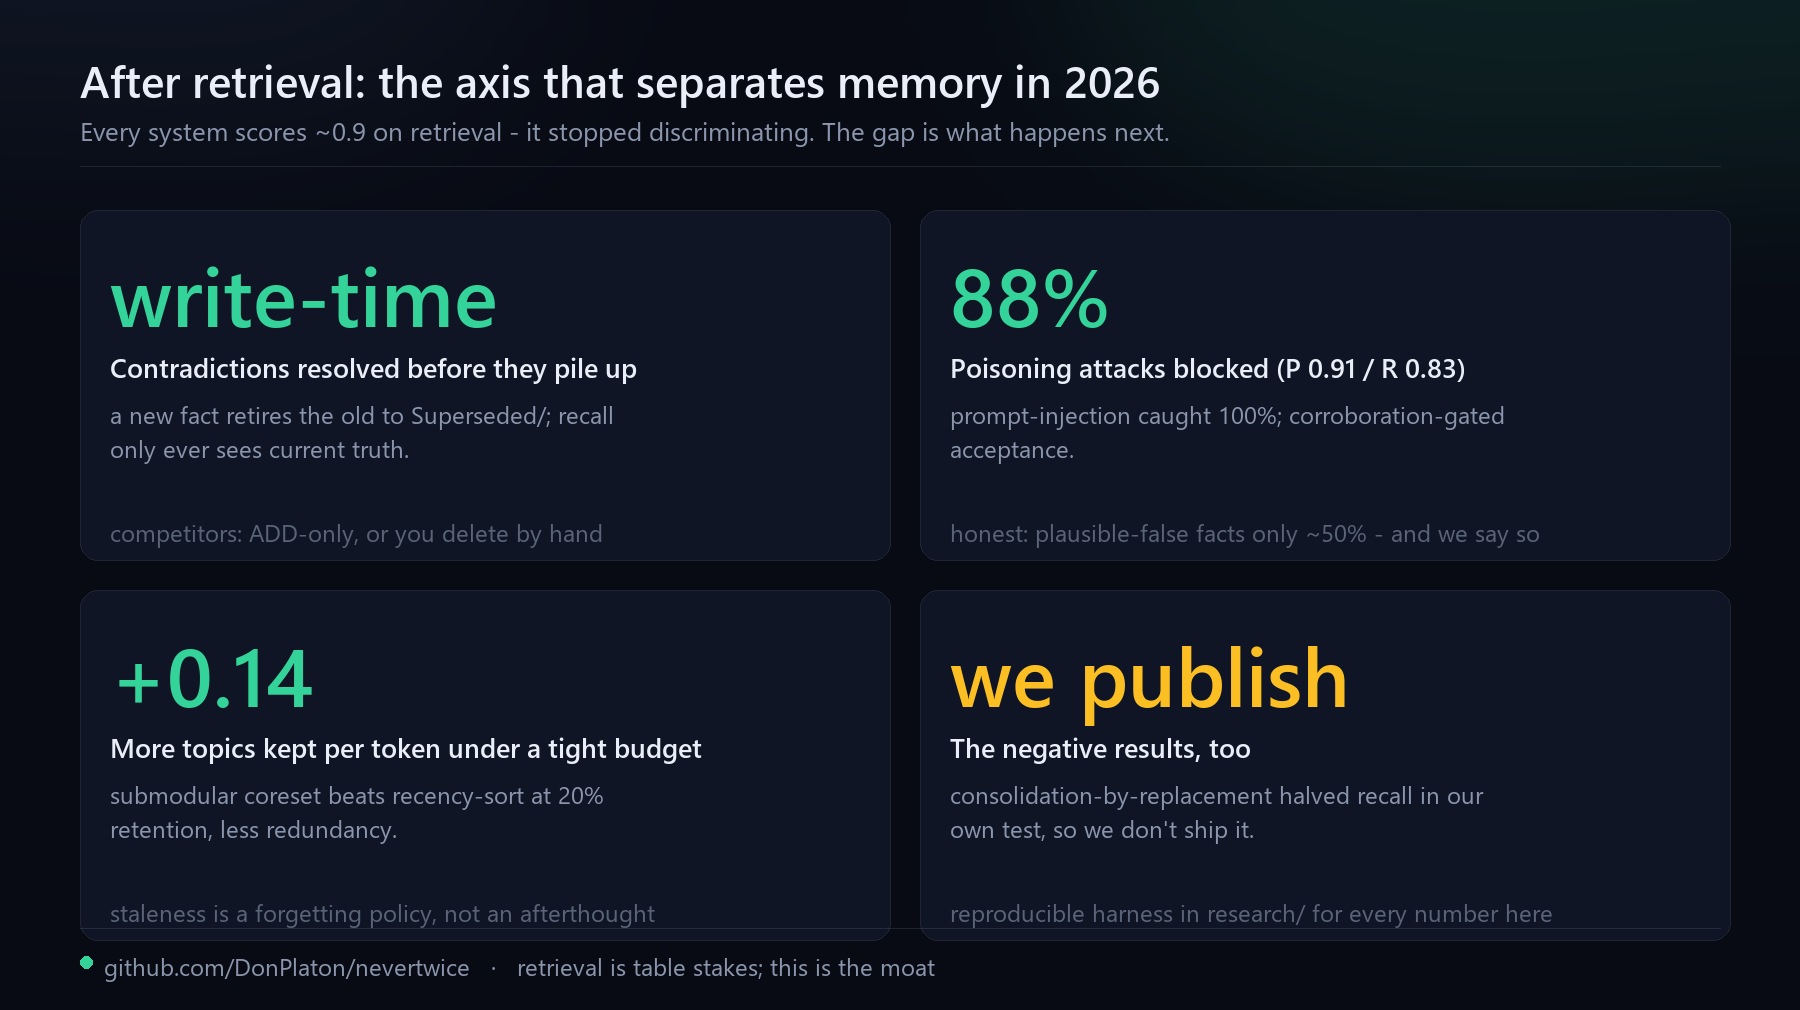
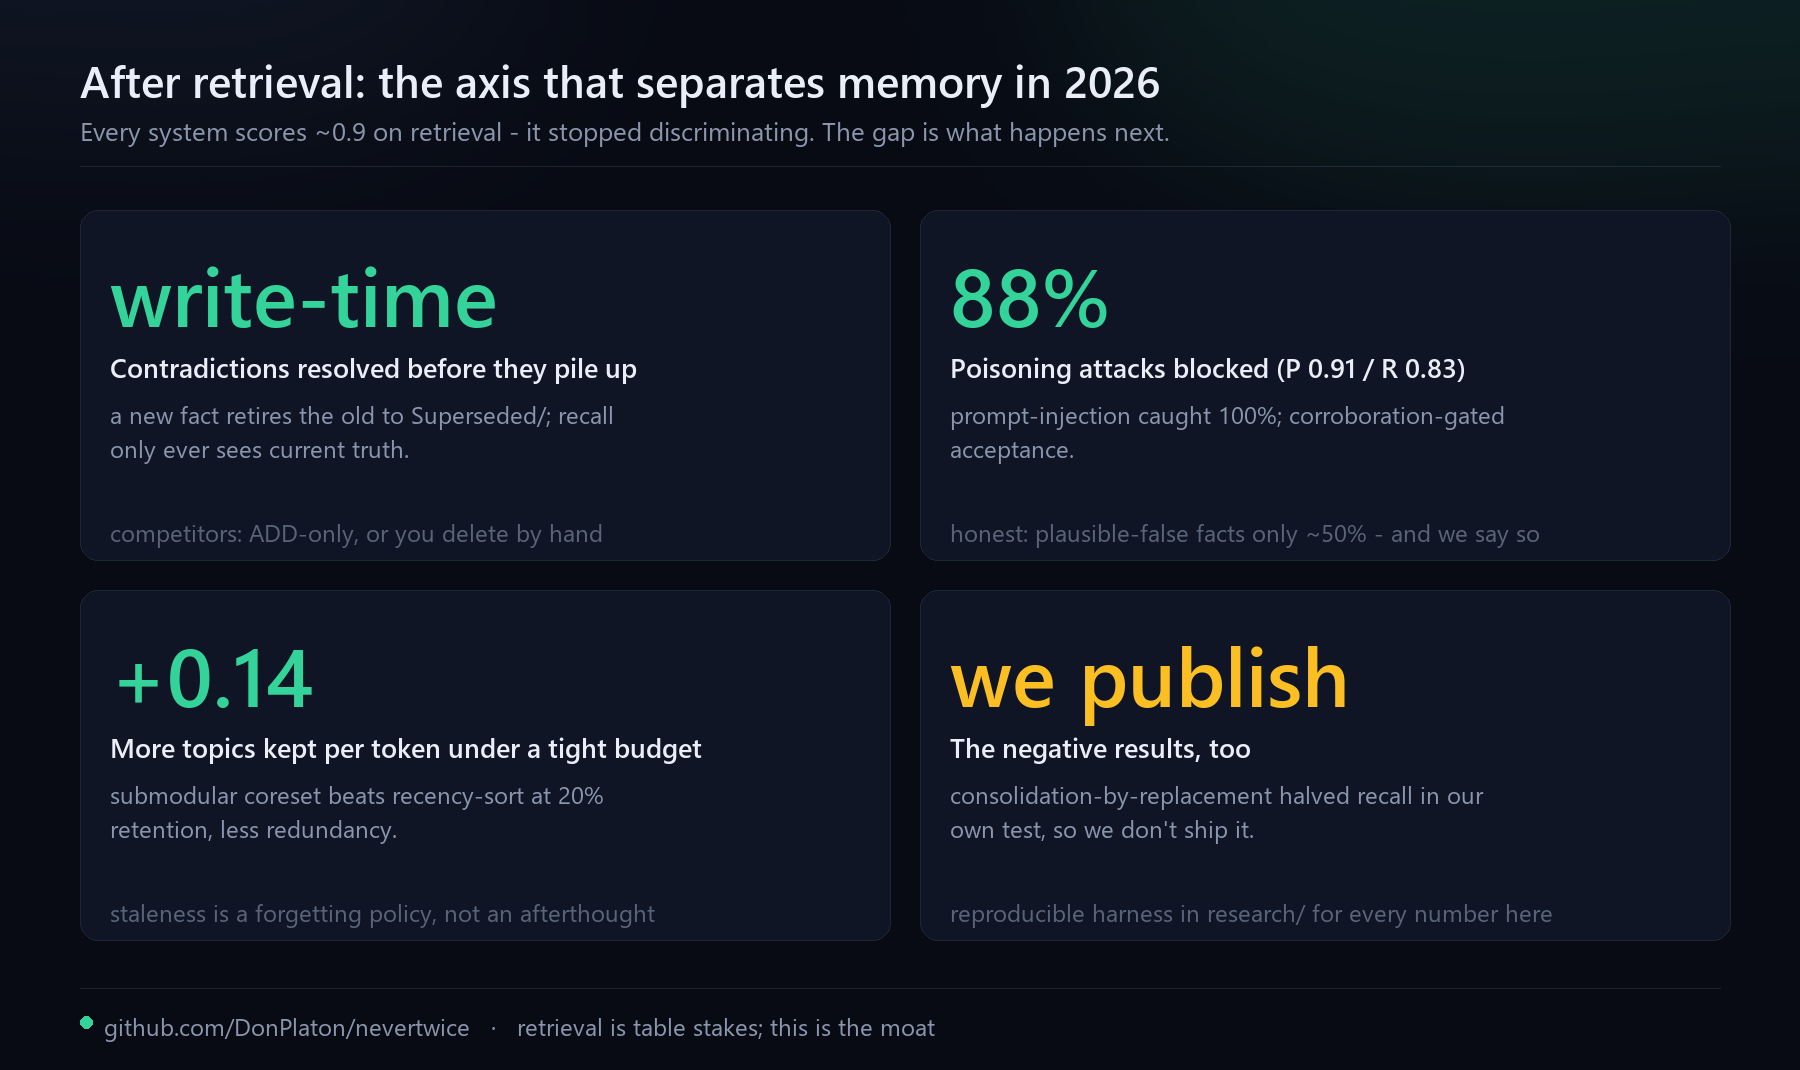
fix(infographic): footer line overlapped the bottom cards in post_retrieval.png
The 2x2 cards end at y=940 but the footer separator sat at H-82=928 on a 1010px
canvas, so the line cut across the two lower cards. Raised the canvas to 1070 so
the footer clears the cards, and pointed the generator's output at docs/ (was a
scratch path) so re-running it updates the repo image directly.

diff --git a/research/gen_post_retrieval_infographic.py b/research/gen_post_retrieval_infographic.py
@@ -3,7 +3,9 @@ Everyone scores ~0.9 on retrieval; the gap is contradictions/poisoning/staleness
 Brand style matches docs/benchmarks.png (OLED slate + green, large type, offline)."""
 from PIL import Image, ImageDraw, ImageFont, ImageFilter
 
-W, H = 1800, 1010
+# H leaves room below the 2x2 cards (which end at cy0 + 2*ch + gap = 940) for the footer line
+# and byline; the footer offsets below are measured from the bottom edge, so it clears the cards.
+W, H = 1800, 1070
 BG = (8, 11, 20); SURFACE = (15, 21, 36)
 FG = (233, 238, 248); MUTED = (139, 150, 173); FAINT = (90, 100, 120)
 GREEN = (52, 211, 153); GREEN_2 = (34, 197, 94); AMBER = (251, 191, 36)
@@ -65,6 +67,7 @@ d.ellipse([80, H-54, 92, H-42], fill=GREEN)
 d.text((104, H-60), "github.com/DonPlaton/nevertwice   ·   retrieval is table stakes; this is the moat",
        font=f_foot, fill=MUTED)
 
-out = r"C:\Users\Platon\AppData\Local\Temp\claude\D--Obsidian-Claude-Memory\ae92cfb9-d53d-4c4d-8c4e-f9a2532b6c05\scratchpad\post_retrieval.png"
+import os
+out = os.path.join(os.path.dirname(os.path.dirname(os.path.abspath(__file__))), "docs", "post_retrieval.png")
 img.save(out)
 print("saved", out)